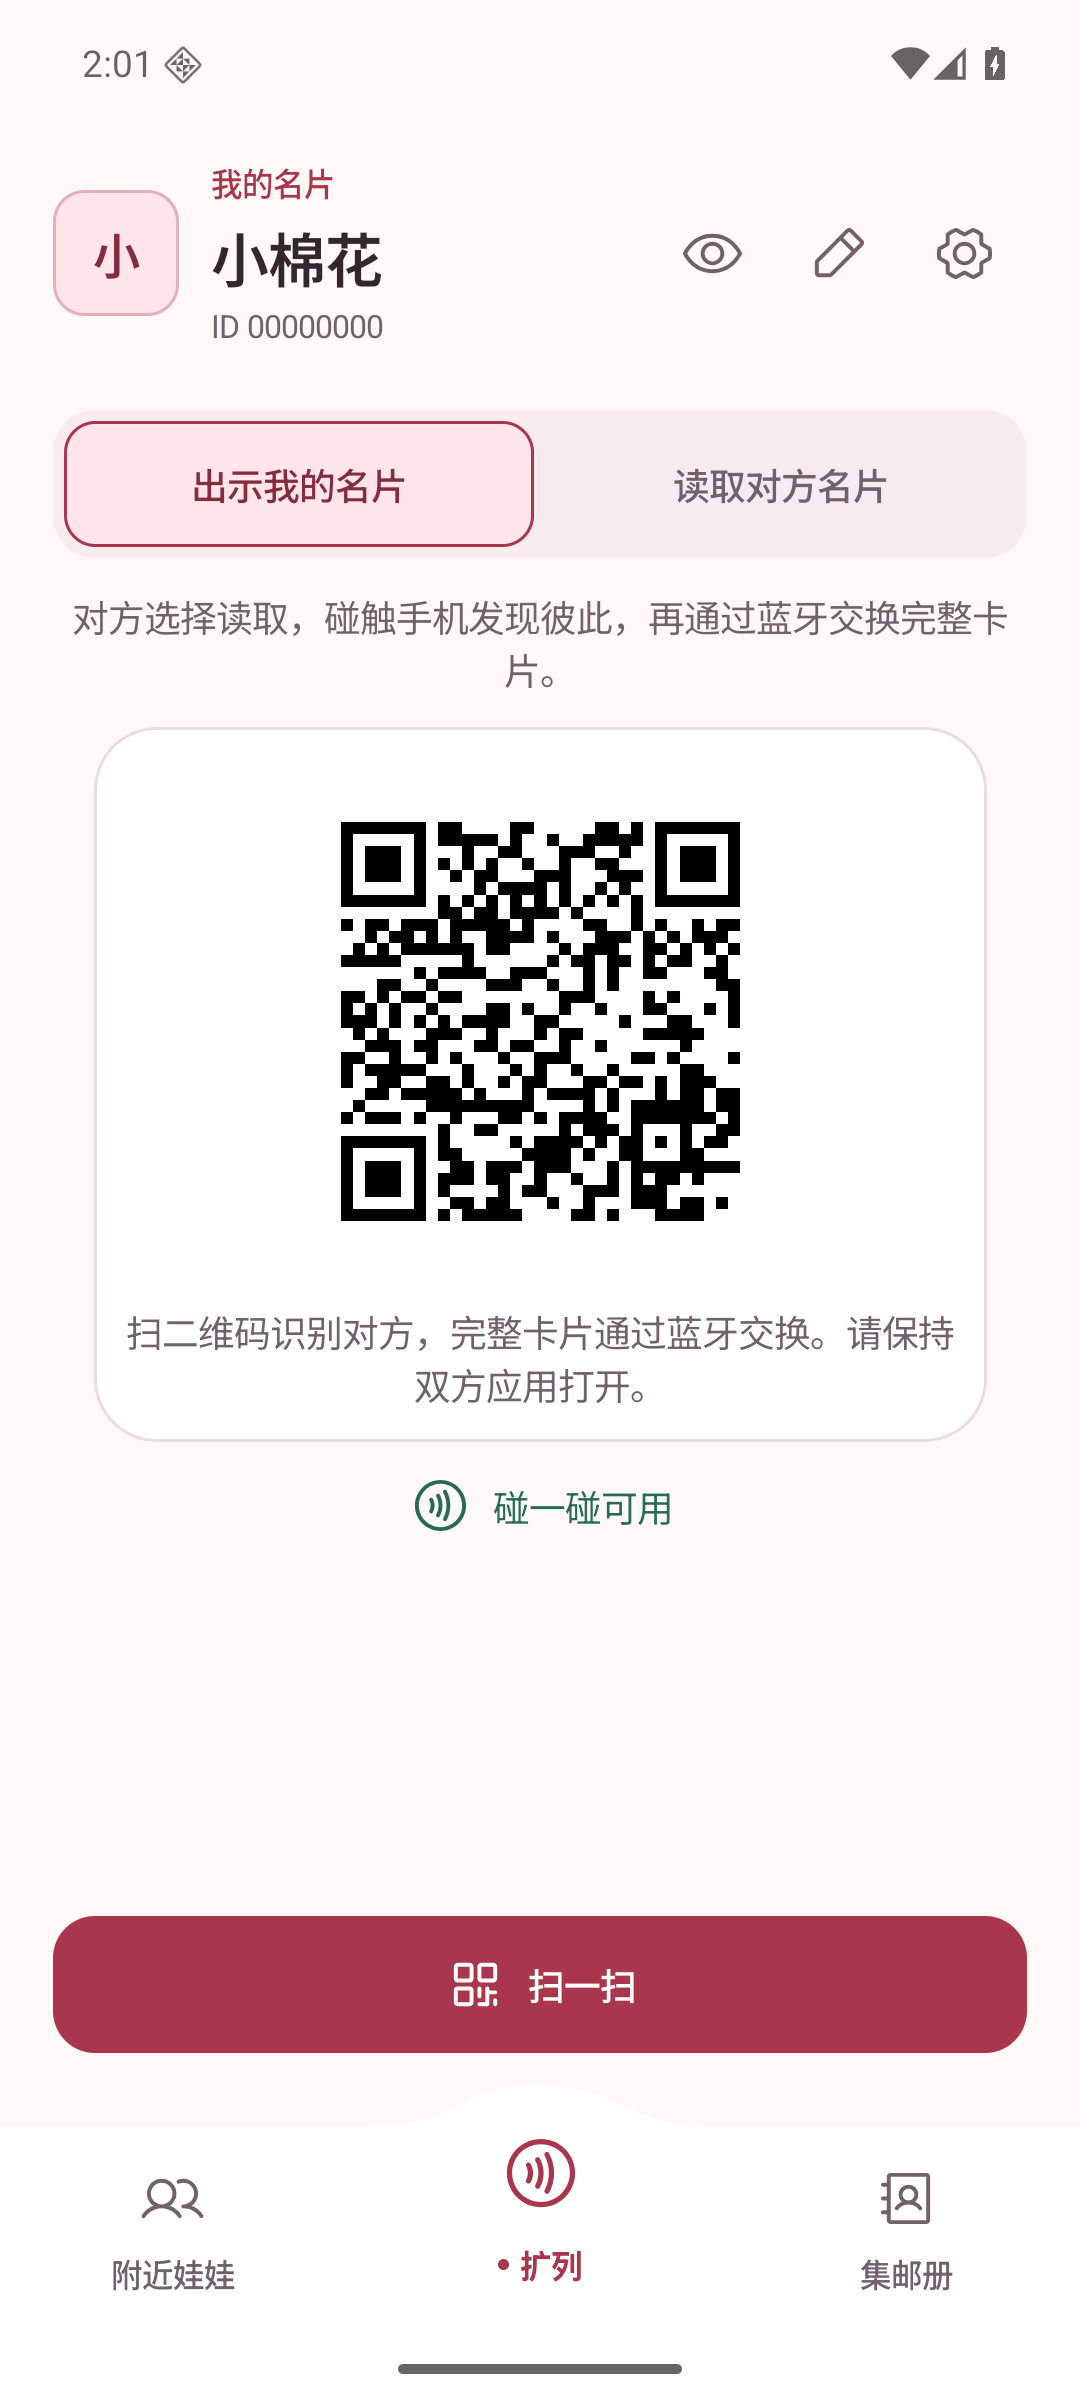
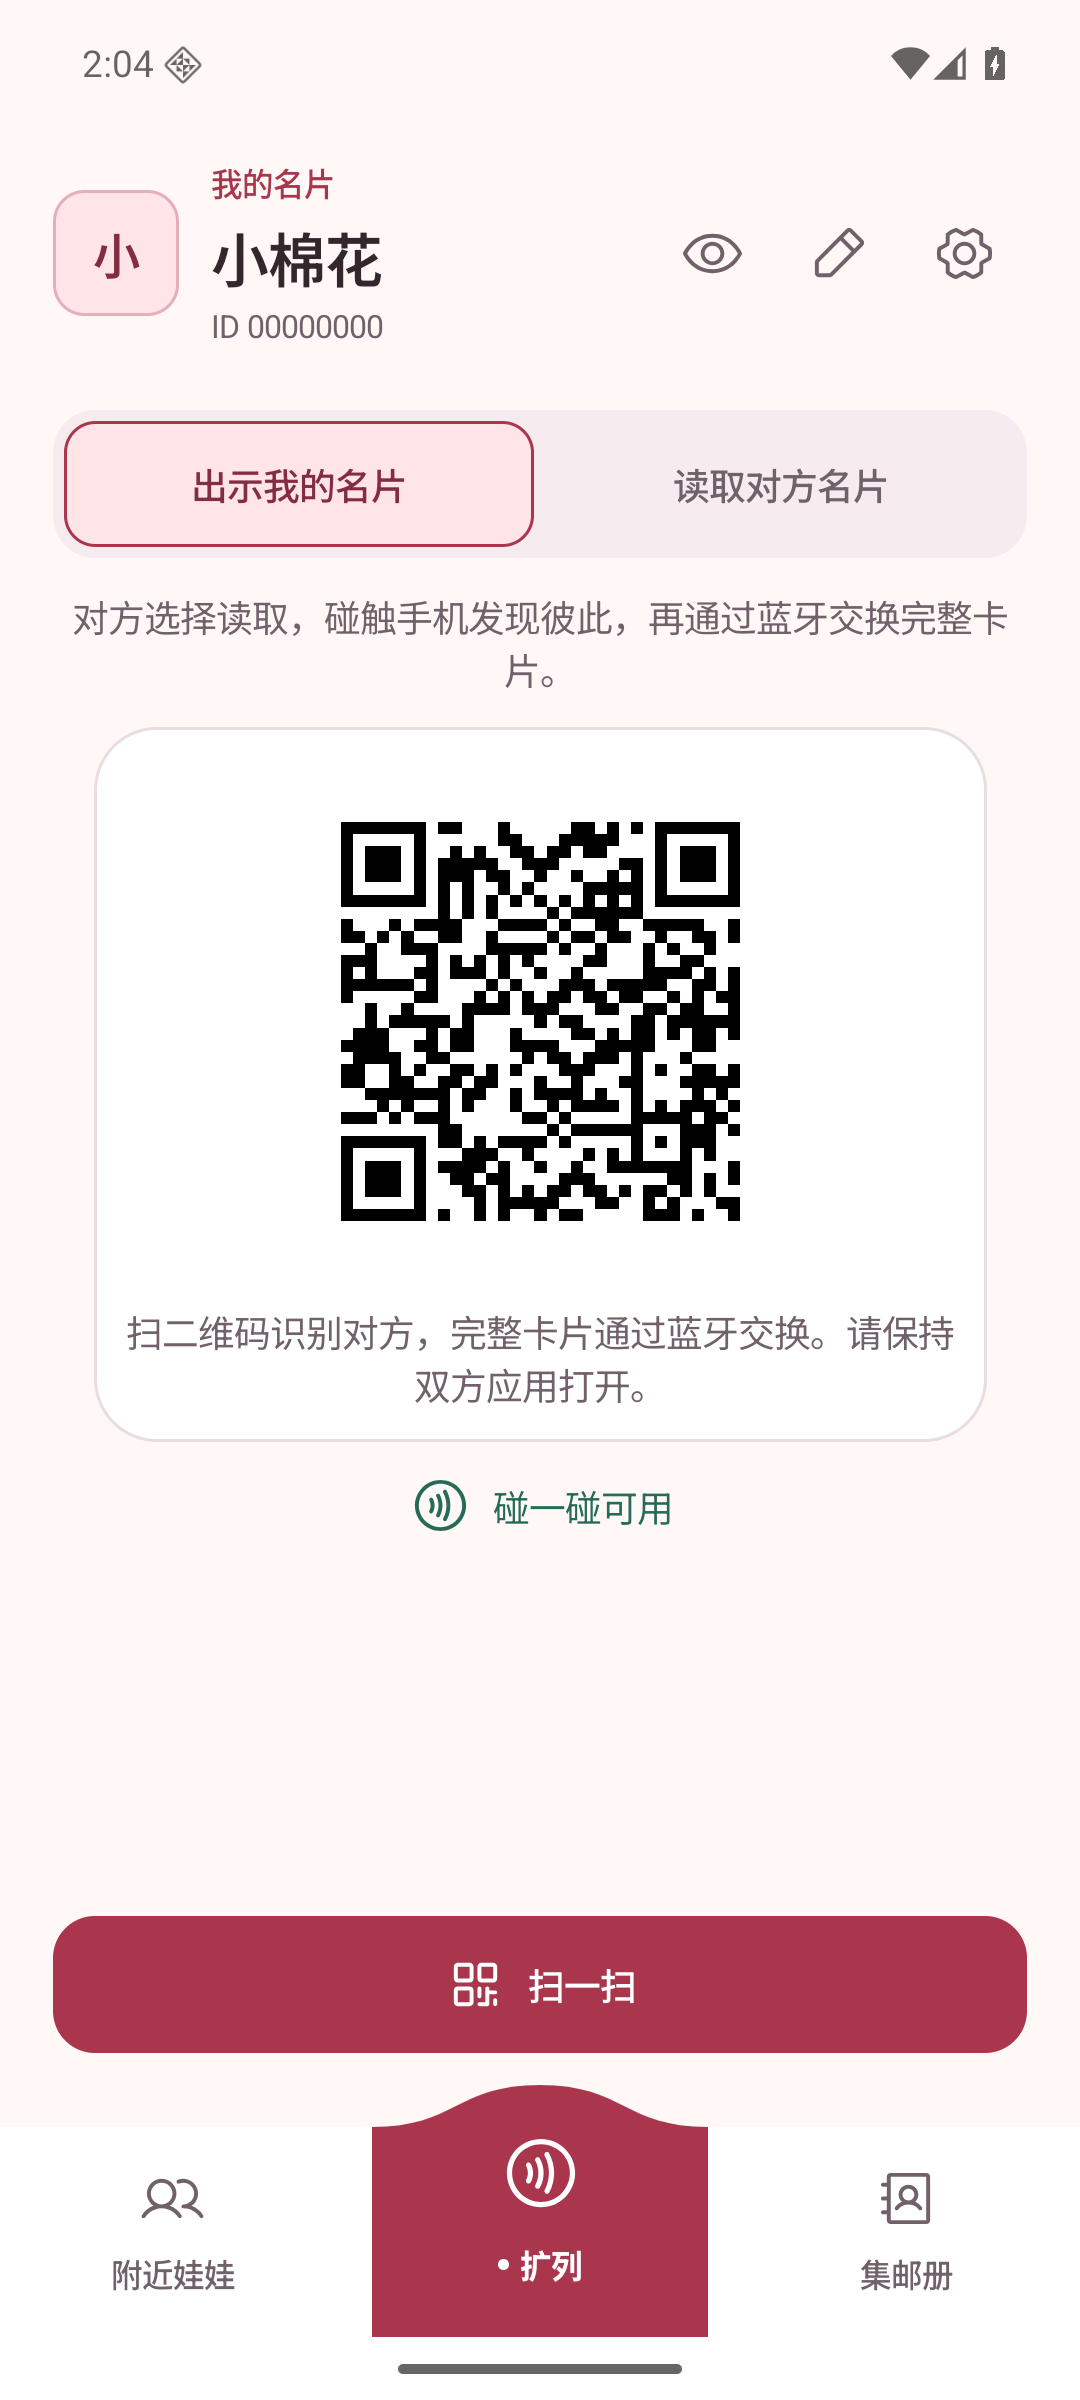
style: 为扩列凸起区域应用强调色

Changed region(s): [[0.3056, 0.3438, 0.7028, 0.5312], [0.3361, 0.8438, 0.6722, 1.0], [0.1222, 0.0, 0.1528, 0.0312]]

diff --git a/app/src/main/kotlin/app/pengwa/ui/AppNavigation.kt b/app/src/main/kotlin/app/pengwa/ui/AppNavigation.kt
@@ -79,6 +79,8 @@ internal fun PengWaScaffold(
 @Composable
 internal fun PengWaNavigation(selectedTab: Int, onSelect: (Int) -> Unit) {
     val barColor = MaterialTheme.colorScheme.surface
+    val accentColor = MaterialTheme.colorScheme.primary
+    val bottomInset = NavigationBarDefaults.windowInsets.getBottom(LocalDensity.current)
     // Draw one continuous bar silhouette: the central crest belongs to the bar itself.
     Box(Modifier.drawBehind {
         val top = 16.dp.toPx()
@@ -95,6 +97,15 @@ internal fun PengWaNavigation(selectedTab: Int, onSelect: (Int) -> Unit) {
             close()
         }
         drawPath(path, barColor)
+        val accent = Path().apply {
+            moveTo(center - shoulder, top)
+            cubicTo(center - shoulder / 2f, top, center - shoulder / 2f, 0f, center, 0f)
+            cubicTo(center + shoulder / 2f, 0f, center + shoulder / 2f, top, center + shoulder, top)
+            lineTo(center + shoulder, size.height - bottomInset)
+            lineTo(center - shoulder, size.height - bottomInset)
+            close()
+        }
+        drawPath(accent, accentColor)
     }) {
         NavigationBar(
             modifier = Modifier.padding(top = 16.dp),
@@ -129,22 +140,22 @@ private fun PrimaryDestination(selected: Boolean, onClick: () -> Unit, modifier:
     Column(
         modifier = modifier
             .heightIn(min = 80.dp)
-            .background(if (inRail) MaterialTheme.colorScheme.primaryContainer else Color.Transparent)
+            .background(if (inRail) MaterialTheme.colorScheme.primary else Color.Transparent)
             .selectable(selected = selected, onClick = onClick, role = Role.Tab)
             .padding(vertical = 4.dp),
         horizontalAlignment = Alignment.CenterHorizontally,
         verticalArrangement = Arrangement.spacedBy(4.dp, Alignment.CenterVertically),
     ) {
         Box(Modifier.size(width = 72.dp, height = 44.dp), contentAlignment = Alignment.Center) {
-            PengWaIcon(PengWaIcons.Tap, Modifier.size(32.dp), tint = MaterialTheme.colorScheme.primary)
+            PengWaIcon(PengWaIcons.Tap, Modifier.size(32.dp), tint = MaterialTheme.colorScheme.onPrimary)
         }
         Row(horizontalArrangement = Arrangement.spacedBy(4.dp), verticalAlignment = Alignment.CenterVertically) {
-            if (selected) Box(Modifier.size(4.dp).background(MaterialTheme.colorScheme.primary, CircleShape))
+            if (selected) Box(Modifier.size(4.dp).background(MaterialTheme.colorScheme.onPrimary, CircleShape))
             Text(
                 stringResource(R.string.tab_exchange),
                 style = MaterialTheme.typography.labelMedium,
                 fontWeight = FontWeight.Bold,
-                color = MaterialTheme.colorScheme.primary,
+                color = MaterialTheme.colorScheme.onPrimary,
             )
         }
     }

diff --git a/docs/screenshots/primary-navigation/README.md b/docs/screenshots/primary-navigation/README.md
@@ -1,6 +1,6 @@
 # 扩列主导航入口
 
-将碰一碰／二维码／扫一扫所在的默认页面从“主页”改为导航正中的“扩列”。导航顺序为“附近娃娃／扩列／集邮册”。底部导航栏中央以连续曲线向上凸起，扩列图标与文字位于这段凸起中，没有独立的实底胶囊或阴影。放大的主题色图标、加粗标签和选中圆点保留主入口强调；两侧保留常规导航样式。横屏短窗口的侧栏使用通栏浅色背景强调扩列，无圆角卡片和阴影。默认打开的页面与交换逻辑沿用现有实现。
+将碰一碰／二维码／扫一扫所在的默认页面从“主页”改为导航正中的“扩列”。导航顺序为“附近娃娃／扩列／集邮册”。底部导航栏中央以连续曲线向上凸起，凸起及其下方扩列区域统一使用主题强调色，图标、标签和选中圆点使用 onPrimary 高对比颜色。强调区域贴合栏体，无阴影或悬浮间隙；两侧保留常规导航样式。横屏短窗口的侧栏同样使用通栏强调色背景，无圆角卡片和阴影。默认打开的页面与交换逻辑沿用现有实现。
 
 ## 运行环境与测试数据
 
@@ -34,7 +34,7 @@
    adb -s emulator-5560 shell am start -n app.pengwa.debug/app.pengwa.ui.UiPreviewActivity --es screen home --ei sample 1
    ```
 
-3. 分别使用 `--es screen bluetooth --ei sample 0`、`--es screen contacts --ei sample 0` 打开两侧页面。确认扩列在导航栏正中凸起处，轮廓与栏体连续、没有悬浮阴影；仅选中扩列时标签前有圆点。
+3. 分别使用 `--es screen bluetooth --ei sample 0`、`--es screen contacts --ei sample 0` 打开两侧页面。确认扩列在导航栏正中凸起处，区域使用强调色、图标文字有清晰对比，轮廓与栏体连续、没有悬浮阴影；仅选中扩列时标签前有圆点。
 4. 用 `adb -s emulator-5560 shell cmd uimode night yes` 切换深色，`no` 恢复浅色。
 5. 窄屏验证：`adb -s emulator-5560 shell wm size 840x1680`，`adb -s emulator-5560 shell settings put system font_scale 1.5`，确认三个入口及标签可见。
 6. 字体恢复 `1.0`，使用 `wm size 1680x840` 验证横屏侧栏。完成后执行 `wm size reset`、`font_scale 1.0` 和 `cmd uimode night no` 恢复配置。
